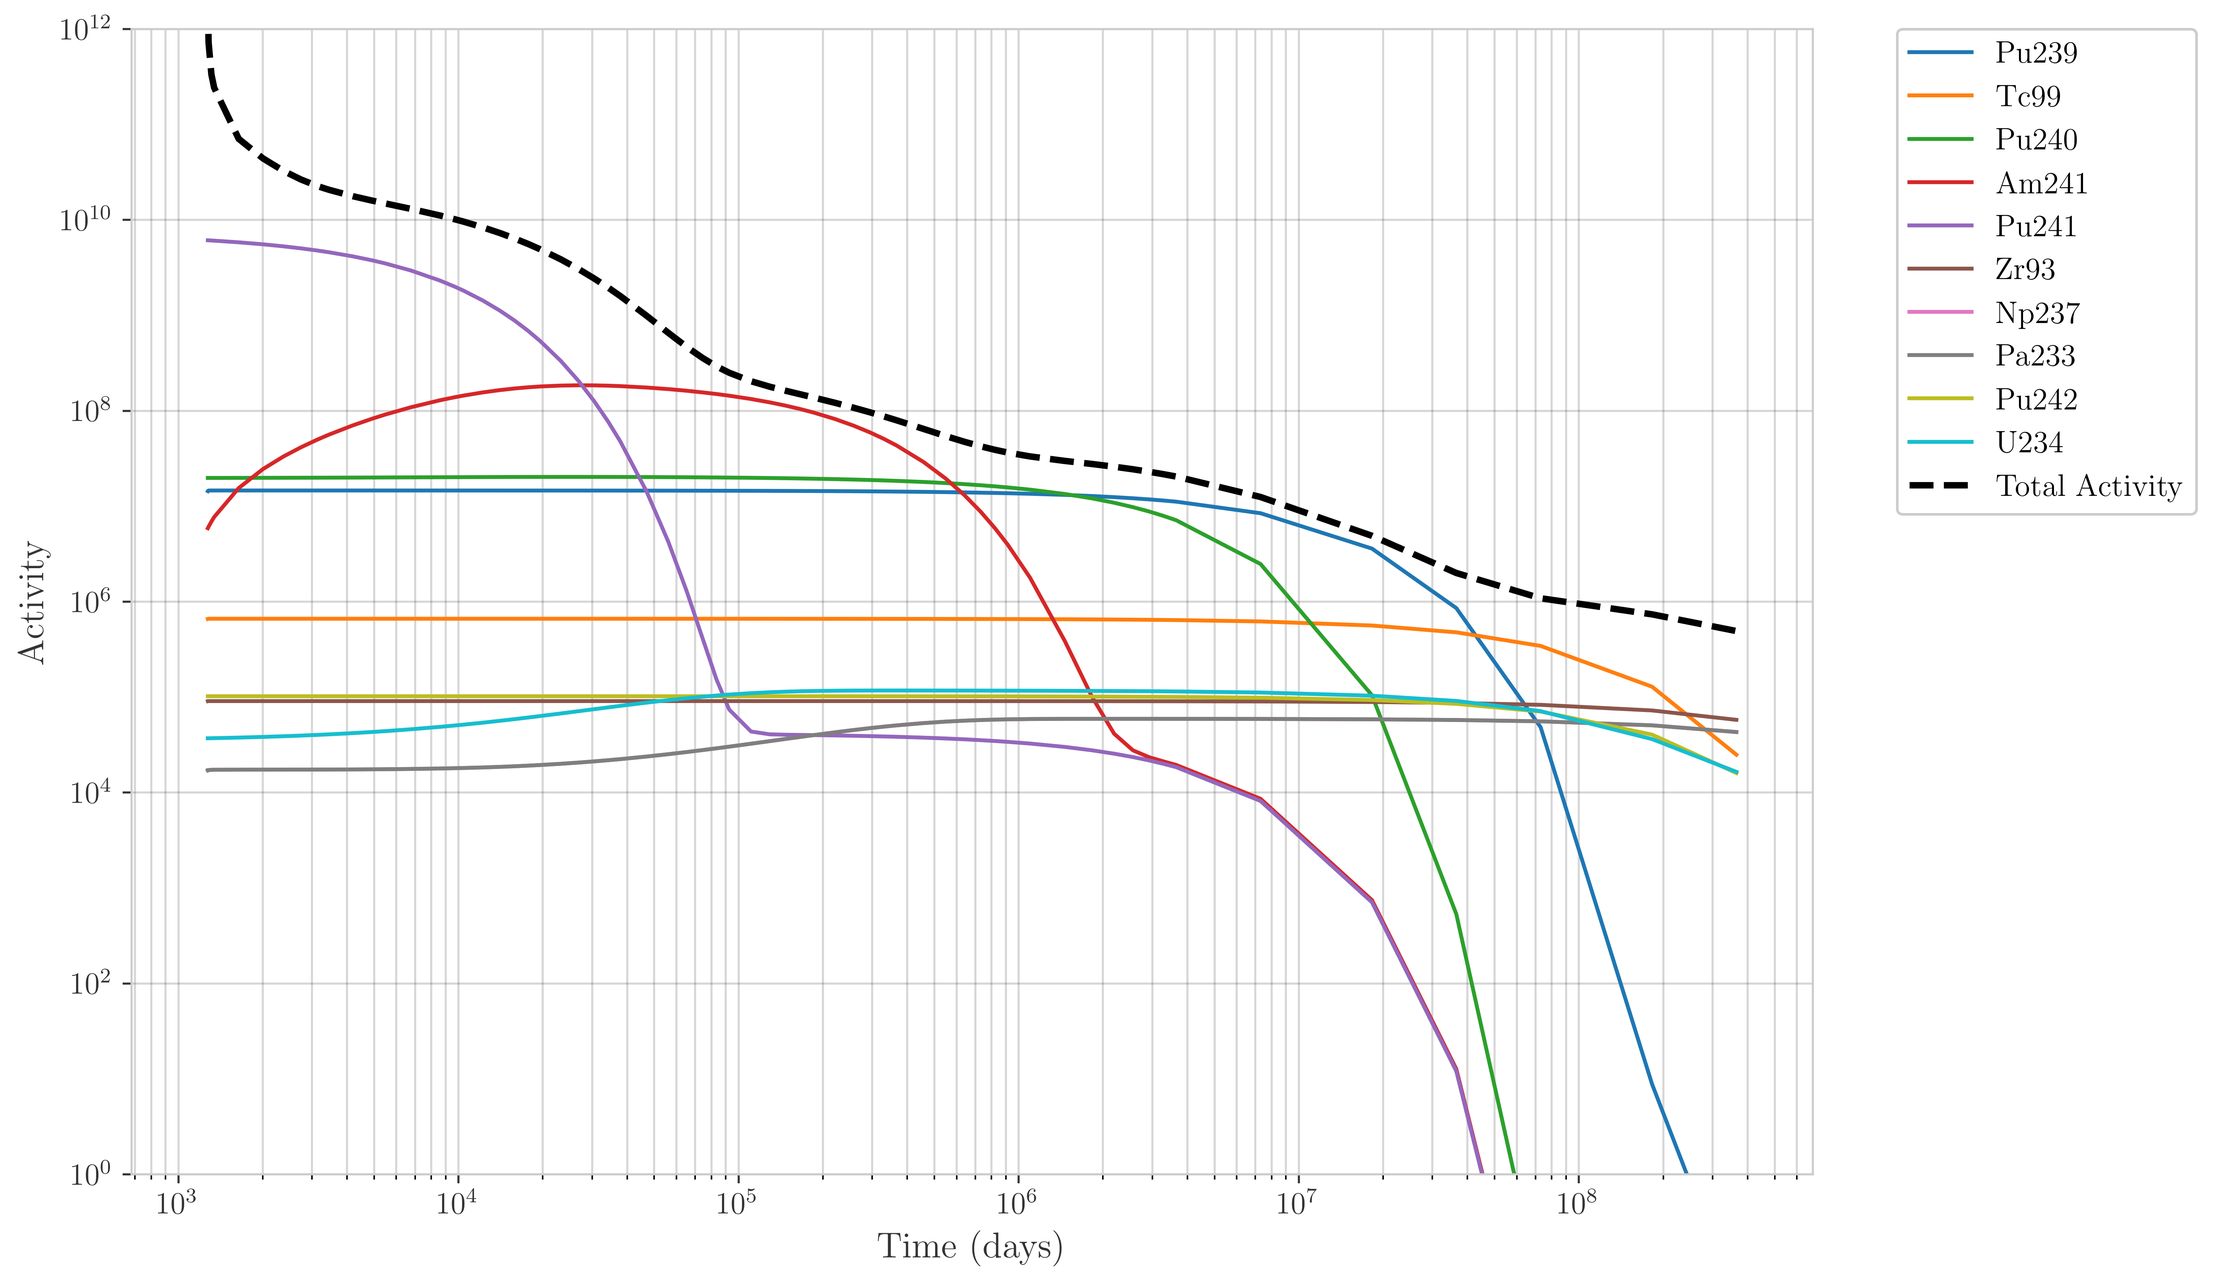
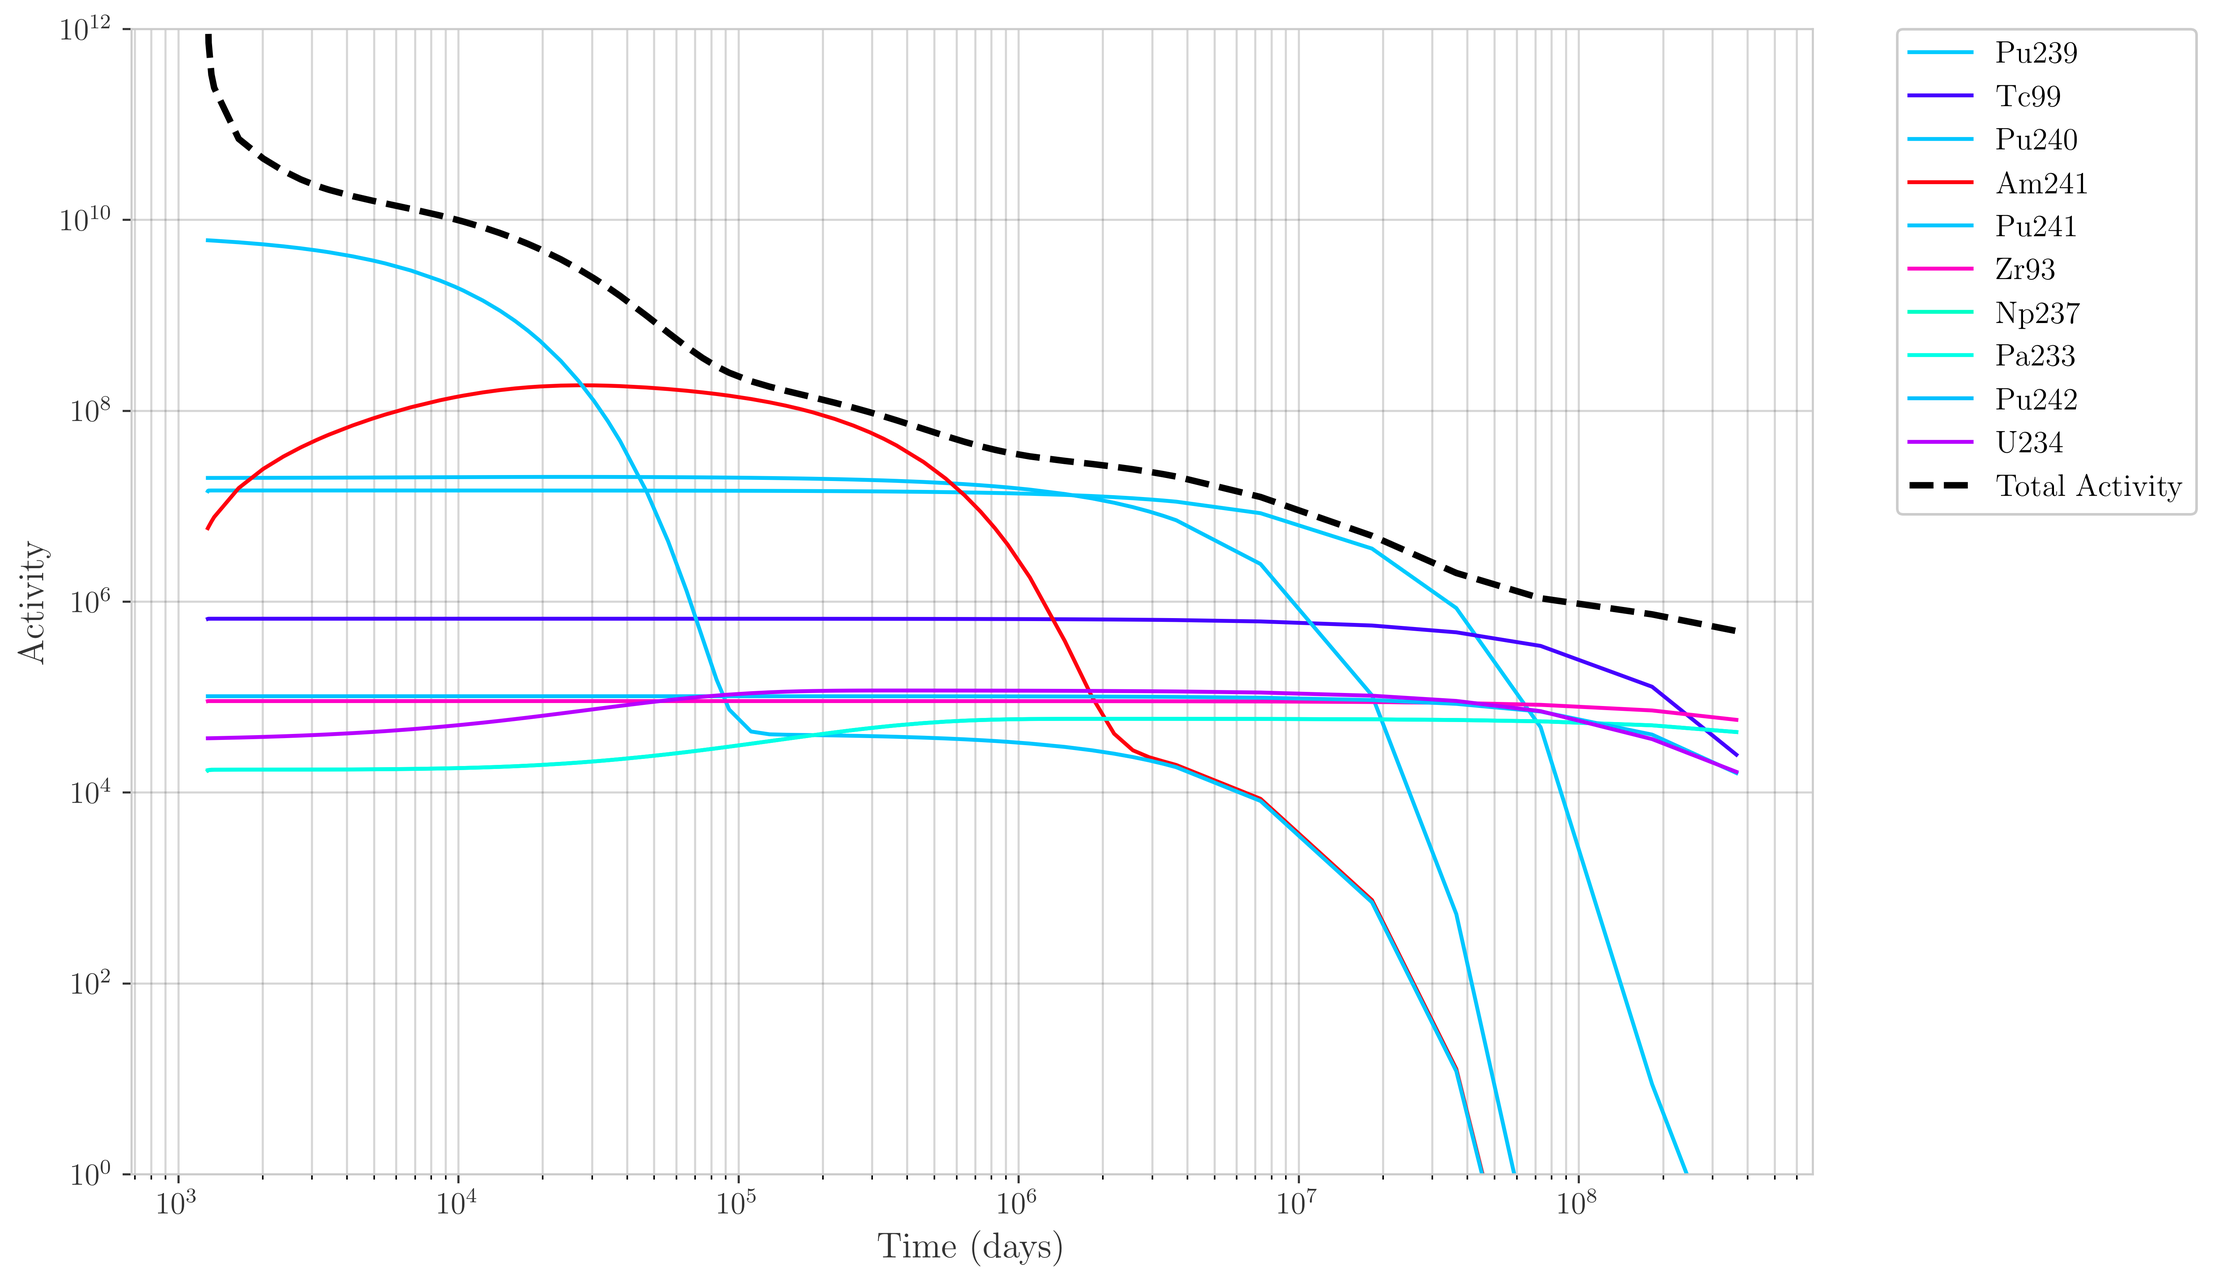
Finished.

diff --git a/fuelCyclesProject/src/plotSNF_2.py b/fuelCyclesProject/src/plotSNF_2.py
@@ -67,25 +67,33 @@ def get_top_contributors(days, activities, isotopes, start_idx, end_idx, n_top=1
     top_indices = np.argsort(integrated_activities)[-n_top:]
     return top_indices[::-1]
 
+import matplotlib.pyplot as plt
+import numpy as np
+from matplotlib.cm import get_cmap, ScalarMappable
+from matplotlib.colors import to_rgba
 
 def create_activity_plots(days, activities, isotopes, split_timestep, output_prefix, reactor_name,
-                          early_ylim=None, late_ylim=None):
+                          early_ylim=None, late_ylim=None, colormap_name='gist_rainbow'):
     """
-    Creates early and late time plots for a given reactor's data with updated styling and larger fonts
+    Creates early and late time plots for a given reactor's data with highly distinguishable isotope colors.
     """
-    # Set the style to match the slide
-    # plt.style.use('default')
+    # Use a perceptually distinct and broad colormap
+    cmap = get_cmap(colormap_name)
+    num_isotopes = len(isotopes)
+    color_map = {isotope: cmap(i / max(num_isotopes - 1, 1)) for i, isotope in enumerate(isotopes)}
 
-    # Custom styling
-    background_color = '#FFFFFF'
-    grid_color = '#333333'
-    text_color = '#333333'
-
-    # Font sizes
-    TITLE_SIZE = 16
-    LABEL_SIZE = 14
-    TICK_SIZE = 12
-    LEGEND_SIZE = 12
+    def style_plot(fig, ax):
+        ax.set_facecolor('#FFFFFF')  # Background color
+        fig.patch.set_facecolor('#FFFFFF')
+        ax.grid(True, which="both", ls="-", alpha=0.2, color='#333333')
+        ax.set_axisbelow(True)
+        for spine in ax.spines.values():
+            spine.set_color('#CCCCCC')
+        ax.tick_params(colors='#333333', labelsize=12)
+        ax.xaxis.label.set_color('#333333')
+        ax.yaxis.label.set_color('#333333')
+        ax.xaxis.label.set_size(14)
+        ax.yaxis.label.set_size(14)
 
     # Find index corresponding to split_timestep
     split_index = np.searchsorted(days, split_timestep)
@@ -97,46 +105,22 @@ def create_activity_plots(days, activities, isotopes, split_timestep, output_pre
     # Calculate total activity at each time point
     total_activity = np.nansum(activities, axis=0)
 
-    def style_plot(fig, ax):
-        ax.set_facecolor(background_color)
-        fig.patch.set_facecolor(background_color)
-
-        # Grid styling
-        ax.grid(True, which="both", ls="-", alpha=0.2, color=grid_color)
-        ax.set_axisbelow(True)
-
-        # Border styling
-        for spine in ax.spines.values():
-            spine.set_color('#CCCCCC')
-
-        # Tick styling
-        ax.tick_params(colors=text_color, labelsize=TICK_SIZE)
-
-        # Label styling
-        ax.xaxis.label.set_color(text_color)
-        ax.yaxis.label.set_color(text_color)
-        ax.xaxis.label.set_size(LABEL_SIZE)
-        ax.yaxis.label.set_size(LABEL_SIZE)
-
     # Create early-time plot
     fig, ax = plt.subplots(figsize=(12, 7))
 
-    # Plot lines
-    for idx in top_late:
+    for idx in top_early:
         isotope_activities = activities[idx, :split_index]
         valid_indices = ~np.isnan(isotope_activities)
         if np.any(valid_indices):
-            ax.plot(days[:split_index], isotope_activities, label=isotopes[idx], linewidth=1.5)
+            ax.plot(days[:split_index], isotope_activities, label=isotopes[idx],
+                    linewidth=1.5, color=color_map[isotopes[idx]])
 
     # Plot total activity with black dashed line
-    ax.plot(days[:split_index], total_activity[:split_index],
-            label='Total Activity', linewidth=2.5, color='black', linestyle='--')
+    ax.plot(days[:split_index], total_activity[:split_index], label='Total Activity',
+            linewidth=2.5, color='black', linestyle='--')
 
-    ax.set_xlabel('Time (days)', fontsize=LABEL_SIZE)
-    ax.set_ylabel('Activity', fontsize=LABEL_SIZE)
-    # ax.set_title(f'{reactor_name} In Core Activity\nTop 10 Time Integrated Contributors',
-    #              color=text_color, pad=20, fontsize=TITLE_SIZE, fontweight='bold')
-
+    ax.set_xlabel('Time (days)', fontsize=14)
+    ax.set_ylabel('Activity', fontsize=14)
     ax.set_xscale('log')
     ax.set_yscale('log')
     if early_ylim:
@@ -144,14 +128,13 @@ def create_activity_plots(days, activities, isotopes, split_timestep, output_pre
 
     style_plot(fig, ax)
 
-    # Legend styling
-    leg = ax.legend(bbox_to_anchor=(1.05, 1), loc='upper left',
-                    borderaxespad=0., fontsize=LEGEND_SIZE, framealpha=1)
-    leg.get_frame().set_facecolor(background_color)
+    leg = ax.legend(bbox_to_anchor=(1.05, 1), loc='upper left', borderaxespad=0.,
+                    fontsize=12, framealpha=1)
+    leg.get_frame().set_facecolor('#FFFFFF')
 
     plt.tight_layout()
     plt.savefig(f'{output_prefix}_early.png', bbox_inches='tight', dpi=500,
-                facecolor=background_color, edgecolor='none')
+                facecolor='#FFFFFF', edgecolor='none')
     plt.close()
 
     # Create late-time plot
@@ -161,16 +144,14 @@ def create_activity_plots(days, activities, isotopes, split_timestep, output_pre
         isotope_activities = activities[idx, split_index:]
         valid_indices = ~np.isnan(isotope_activities)
         if np.any(valid_indices):
-            ax.plot(days[split_index:], isotope_activities, label=isotopes[idx], linewidth=1.5)
+            ax.plot(days[split_index:], isotope_activities, label=isotopes[idx],
+                    linewidth=1.5, color=color_map[isotopes[idx]])
 
-    ax.plot(days[split_index:], total_activity[split_index:],
-            label='Total Activity', linewidth=2.5, color='black', linestyle='--')
+    ax.plot(days[split_index:], total_activity[split_index:], label='Total Activity',
+            linewidth=2.5, color='black', linestyle='--')
 
-    ax.set_xlabel('Time (days)', fontsize=LABEL_SIZE)
-    ax.set_ylabel('Activity', fontsize=LABEL_SIZE)
-    # ax.set_title(f'{reactor_name} Spent Fuel Activity\nTop 10 Time Integrated Contributors',
-    #              color=text_color, pad=20, fontsize=TITLE_SIZE, fontweight='bold')
-
+    ax.set_xlabel('Time (days)', fontsize=14)
+    ax.set_ylabel('Activity', fontsize=14)
     ax.set_xscale('log')
     ax.set_yscale('log')
     if late_ylim:
@@ -178,14 +159,13 @@ def create_activity_plots(days, activities, isotopes, split_timestep, output_pre
 
     style_plot(fig, ax)
 
-    # Legend styling
-    leg = ax.legend(bbox_to_anchor=(1.05, 1), loc='upper left',
-                    borderaxespad=0., fontsize=LEGEND_SIZE, framealpha=1)
-    leg.get_frame().set_facecolor(background_color)
+    leg = ax.legend(bbox_to_anchor=(1.05, 1), loc='upper left', borderaxespad=0.,
+                    fontsize=12, framealpha=1)
+    leg.get_frame().set_facecolor('#FFFFFF')
 
     plt.tight_layout()
     plt.savefig(f'{output_prefix}_late.png', bbox_inches='tight', dpi=500,
-                facecolor=background_color, edgecolor='none')
+                facecolor='#FFFFFF', edgecolor='none')
     plt.close()
 
 
@@ -276,134 +256,98 @@ def get_fissile_data():
 
     return decay_constants
 
-def create_fissile_inventory_plots(days, activities, isotopes, split_timestep, output_prefix, reactor_name,
-                                   early_ylim=None, late_ylim=None):
+
+def create_fissile_inventory_plot(days, inventories, isotopes, split_timestep, output_prefix, reactor_name,
+                                  colormap_name='Spectral', early_ylim=None):
     """
-    Creates early and late time plots for fissile isotope inventories
+    Creates a plot of fissile isotope inventories with perceptually distinct colors,
+    split into early and late timesteps.
+
+    Parameters:
+        days (array-like): Time points (in days).
+        inventories (2D array): Inventory data for each isotope (rows correspond to isotopes, columns to time points).
+        isotopes (list of str): Names of the isotopes.
+        split_timestep (int): Index at which to split early and late timesteps.
+        output_prefix (str): Prefix for the output file name.
+        reactor_name (str): Name of the reactor for the plot title.
+        colormap_name (str): Name of the matplotlib colormap to use for isotope colors.
+        early_ylim (tuple): Optional y-axis limits for the early timestep plot.
     """
-    # Set the style to match the previous plots
-    # plt.style.use('default')
+    # Use a perceptually distinct colormap
+    cmap = get_cmap(colormap_name)
+    num_isotopes = len(isotopes)
+    color_map = {isotope: cmap(i / max(num_isotopes - 1, 1)) for i, isotope in enumerate(isotopes)}
 
-    # Custom styling
-    background_color = '#FFFFFF'
-    grid_color = '#333333'
-    text_color = '#333333'
-
-    # Font sizes
-    TITLE_SIZE = 16
-    LABEL_SIZE = 14
-    TICK_SIZE = 12
-    LEGEND_SIZE = 12
-
-    # Get fissile isotopes and decay constants
-    fissile_data = get_fissile_data()
-
-    # Filter for fissile isotopes in our data
-    fissile_indices = []
-    fissile_lambdas = []
-    fissile_names = []
-    for i, isotope in enumerate(isotopes):
-        if isotope in fissile_data:
-            fissile_indices.append(i)
-            fissile_lambdas.append(fissile_data[isotope])
-            fissile_names.append(isotope)
-
-    # Convert activities to inventories using N = A/λ
-    fissile_inventories = np.zeros((len(fissile_indices), len(days)))
-    for idx, (i, lambda_i) in enumerate(zip(fissile_indices, fissile_lambdas)):
-        fissile_inventories[idx] = activities[i] / lambda_i
-
-    # Normalize by total initial inventory
-    initial_total = np.sum(fissile_inventories[:, 0])
-    fissile_inventories /= initial_total
-
-    # Find index corresponding to split_timestep
-    split_index = np.searchsorted(days, split_timestep)
-
-    # Get top 10 contributors based on time-integrated inventory
-    early_integrated = np.zeros(len(fissile_indices))
-    late_integrated = np.zeros(len(fissile_indices))
-
-    for i in range(len(fissile_indices)):
-        early_integrated[i] = integrate.simps(fissile_inventories[i, :split_index], days[:split_index])
-        late_integrated[i] = integrate.simps(fissile_inventories[i, split_index:], days[split_index:])
-
-    top_early = np.argsort(early_integrated)[-10:][::-1]
-    top_late = np.argsort(late_integrated)[-10:][::-1]
-
+    # Styling function for plot aesthetics
     def style_plot(fig, ax):
-        ax.set_facecolor(background_color)
-        fig.patch.set_facecolor(background_color)
-        ax.grid(True, which="both", ls="-", alpha=0.2, color=grid_color)
+        ax.set_facecolor('#FFFFFF')  # Background color
+        fig.patch.set_facecolor('#FFFFFF')
+        ax.grid(True, which="both", ls="-", alpha=0.2, color='#333333')
         ax.set_axisbelow(True)
         for spine in ax.spines.values():
             spine.set_color('#CCCCCC')
-        ax.tick_params(colors=text_color, labelsize=TICK_SIZE)
-        ax.xaxis.label.set_color(text_color)
-        ax.yaxis.label.set_color(text_color)
-        ax.xaxis.label.set_size(LABEL_SIZE)
-        ax.yaxis.label.set_size(LABEL_SIZE)
+        ax.tick_params(colors='#333333', labelsize=12)
+        ax.xaxis.label.set_color('#333333')
+        ax.yaxis.label.set_color('#333333')
+        ax.xaxis.label.set_size(14)
+        ax.yaxis.label.set_size(14)
 
-    # Create early-time plot
+    # Split the data into early and late timesteps
+    early_days = days[:split_timestep]
+    late_days = days[split_timestep:]
+    early_inventories = inventories[:, :split_timestep]
+    late_inventories = inventories[:, split_timestep:]
+
+    # Plot early timestep data
     fig, ax = plt.subplots(figsize=(12, 7))
+    for idx, isotope in enumerate(isotopes):
+        isotope_inventory = early_inventories[idx, :]
+        valid_indices = ~np.isnan(isotope_inventory)
+        if np.any(valid_indices):
+            ax.plot(early_days, isotope_inventory, label=isotope,
+                    linewidth=1.5, color=color_map[isotope])
 
-    # Plot each top isotope
-    for idx in top_early:
-        inventory = fissile_inventories[idx, :split_index]
-        ax.plot(days[:split_index], inventory, label=fissile_names[idx], linewidth=1.5)
+    total_early_inventory = np.nansum(early_inventories, axis=0)
+    ax.plot(early_days, total_early_inventory, label='Total Inventory',
+            linewidth=2.5, color='black', linestyle='--')
 
-    # Plot total inventory
-    total_inventory = np.sum(fissile_inventories[:, :split_index], axis=0)
-    ax.plot(days[:split_index], total_inventory, label='Total', linewidth=2.5, color='black', linestyle='--')
-
-    ax.set_xlabel('Time (days)', fontsize=LABEL_SIZE)
-    ax.set_ylabel('Normalized Inventory', fontsize=LABEL_SIZE)
-    # ax.set_title(f'{reactor_name} In Core Fissile Inventory\nTop 10 Time Integrated Contributors',
-    #              color=text_color, pad=20, fontsize=TITLE_SIZE, fontweight='bold')
-
-    # ax.set_xscale('log')
+    ax.set_xlabel('Time (days)', fontsize=14)
+    ax.set_ylabel('Inventory (kg)', fontsize=14)
+    ax.set_xscale('log')
     ax.set_yscale('log')
     if early_ylim:
         ax.set_ylim(early_ylim)
-
+    ax.set_title(f'{reactor_name} Fissile Inventory (Early Time)', fontsize=16, color='#333333')
     style_plot(fig, ax)
-    leg = ax.legend(bbox_to_anchor=(1.05, 1), loc='upper left',
-                    borderaxespad=0., fontsize=LEGEND_SIZE, framealpha=1)
-    leg.get_frame().set_facecolor(background_color)
-
+    leg = ax.legend(bbox_to_anchor=(1.05, 1), loc='upper left', borderaxespad=0., fontsize=12, framealpha=1)
+    leg.get_frame().set_facecolor('#FFFFFF')
     plt.tight_layout()
-    plt.savefig(f'{output_prefix}_early.png', bbox_inches='tight', dpi=500,
-                facecolor=background_color, edgecolor='none')
+    plt.savefig(f'{output_prefix}_early.png', bbox_inches='tight', dpi=500, facecolor='#FFFFFF', edgecolor='none')
     plt.close()
 
-    # Create late-time plot
+    # Plot late timestep data
     fig, ax = plt.subplots(figsize=(12, 7))
+    for idx, isotope in enumerate(isotopes):
+        isotope_inventory = late_inventories[idx, :]
+        valid_indices = ~np.isnan(isotope_inventory)
+        if np.any(valid_indices):
+            ax.plot(late_days, isotope_inventory, label=isotope,
+                    linewidth=1.5, color=color_map[isotope])
 
-    for idx in top_late:
-        inventory = fissile_inventories[idx, split_index:]
-        ax.plot(days[split_index:], inventory, label=fissile_names[idx], linewidth=1.5)
+    total_late_inventory = np.nansum(late_inventories, axis=0)
+    ax.plot(late_days, total_late_inventory, label='Total Inventory',
+            linewidth=2.5, color='black', linestyle='--')
 
-    total_inventory = np.sum(fissile_inventories[:, split_index:], axis=0)
-    ax.plot(days[split_index:], total_inventory, label='Total', linewidth=2.5, color='black', linestyle='--')
-
-    ax.set_xlabel('Time (days)', fontsize=LABEL_SIZE)
-    ax.set_ylabel('Normalized Inventory', fontsize=LABEL_SIZE)
-    # ax.set_title(f'{reactor_name} Spent Fuel Fissile Inventory\nTop 10 Time Integrated Contributors',
-    #              color=text_color, pad=20, fontsize=TITLE_SIZE, fontweight='bold')
-
-    # ax.set_xscale('log')
+    ax.set_xlabel('Time (days)', fontsize=14)
+    ax.set_ylabel('Inventory (kg)', fontsize=14)
+    ax.set_xscale('log')
     ax.set_yscale('log')
-    if late_ylim:
-        ax.set_ylim(late_ylim)
-
+    ax.set_title(f'{reactor_name} Fissile Inventory (Late Time)', fontsize=16, color='#333333')
     style_plot(fig, ax)
-    leg = ax.legend(bbox_to_anchor=(1.05, 1), loc='upper left',
-                    borderaxespad=0., fontsize=LEGEND_SIZE, framealpha=1)
-    leg.get_frame().set_facecolor(background_color)
-
+    leg = ax.legend(bbox_to_anchor=(1.05, 1), loc='upper left', borderaxespad=0., fontsize=12, framealpha=1)
+    leg.get_frame().set_facecolor('#FFFFFF')
     plt.tight_layout()
-    plt.savefig(f'{output_prefix}_late.png', bbox_inches='tight', dpi=500,
-                facecolor=background_color, edgecolor='none')
+    plt.savefig(f'{output_prefix}_late.png', bbox_inches='tight', dpi=500, facecolor='#FFFFFF', edgecolor='none')
     plt.close()
 
 
@@ -445,10 +389,10 @@ create_activity_plots(pwr_days, pwr_activities, pwr_isotopes,
                       pwr_split_timestep, output_path + 'pwr_activity_plot', 'Reference PWR',
                       early_ylim=pwr_early_ylim, late_ylim=pwr_late_ylim)
 
-create_fissile_inventory_plots(htgr_days, htgr_activities, htgr_isotopes, htgr_split_timestep,
+create_fissile_inventory_plot(htgr_days, htgr_activities, htgr_isotopes, htgr_split_timestep,
                                output_path + 'htgr_fissile_plot', 'HTGR FCM',
-                               early_ylim=fissile_ylim, late_ylim=None)
+                               early_ylim=fissile_ylim)
 
-create_fissile_inventory_plots(pwr_days, pwr_activities, pwr_isotopes, pwr_split_timestep,
+create_fissile_inventory_plot(pwr_days, pwr_activities, pwr_isotopes, pwr_split_timestep,
                                output_path + 'pwr_fissile_plot', 'Reference PWR',
-                               early_ylim=fissile_ylim, late_ylim=None)
+                               early_ylim=fissile_ylim)
